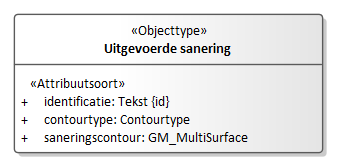
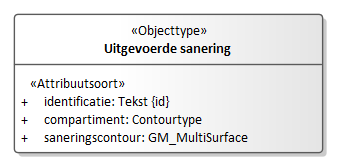
Conceptualmodel-OverheidsbesluitbodemverontreinigingSLD-0.5-1-20230209-20230223-185531

Changed region(s): [[0.178, 0.6928, 0.5935, 0.7831]]

diff --git a/data/SLD-cat.msword.html b/data/SLD-cat.msword.html
@@ -15,7 +15,7 @@
    <body>
       <p>Conceptual model/Overheidsbesluit bodemverontreiniging SLD/20230209</p>
       <p>Imvertor: 2.0.0</p>
-      <p>Model release: Conceptualmodel-OverheidsbesluitbodemverontreinigingSLD-0.5-1-20230209-20230223-153419</p>
+      <p>Model release: Conceptualmodel-OverheidsbesluitbodemverontreinigingSLD-0.5-1-20230209-20230223-185531</p>
       <hr>
       <section>
          <h1>Artikel 1 Definitie van registratieobject, entiteiten en attributen</h1>
@@ -568,7 +568,7 @@
                            </tr>
                         </tbody>
                      </table>
-                     </section><a class="anchor" id="detail_d37994e2942"></a><section id="detail_d37994e2942">
+                     </section><a class="anchor" id="detail_d37890e2942"></a><section id="detail_d37890e2942">
                      <h4>  registratiegeschiedenis</h4>
                      <table style="width: 100%;">
                         <colgroup style="width: 30%;"></colgroup>
@@ -605,7 +605,7 @@
                            </tr>
                         </tbody>
                      </table>
-                  </section><a class="anchor" id="detail_d37994e3127"></a><section id="detail_d37994e3127">
+                  </section><a class="anchor" id="detail_d37890e3127"></a><section id="detail_d37890e3127">
                      <h4>  geldigheid</h4>
                      <table style="width: 100%;">
                         <colgroup style="width: 30%;"></colgroup>
@@ -653,7 +653,7 @@
                            </tr>
                         </tbody>
                      </table>
-                  </section><a class="anchor" id="detail_d37994e3397"></a><section id="detail_d37994e3397">
+                  </section><a class="anchor" id="detail_d37890e3397"></a><section id="detail_d37890e3397">
                      <h4>  gestandaardiseerde locatie</h4>
                      <table style="width: 100%;">
                         <colgroup style="width: 30%;"></colgroup>
@@ -1641,13 +1641,9 @@
                                  kwaliteit. Belastende activiteiten kunnen de bodemkwaliteit verminderen of bedreigen.
                                  Onder belastende activiteiten vallen bijvoorbeeld stortplaatsen, slootdempingen, (gesaneerde)
                                  ondergrondse brandstoftanks of (oude) industriële bedrijfsterreinen.<br clear="none">
+                                 <strong>[TODO]</strong> vanaf 1 januari 1987 (de inwerking treding van de Wet bodembescherming.
+                                 <strong>[open punt]</strong> in de volgende werkversie van de catalogus wordt het start- en eindjaar toegevoegd.
                                  </p>
-                              
-                              <p>
-                                 <strong>[OPEN PUNT]</strong> in de volgende werkversie van de catalogus wordt het start- en eindjaar toegevoegd.
-                                 </p>
-                              
-                              <p>vanaf 1 januari 1987 (de inwerking treding van de Wet bodembescherming</p>
                               </td>
                         </tr>
                      </tbody>
@@ -1785,10 +1781,9 @@
                            <th>Toelichting</th>
                            <td>
                               
-                              <p>
-                                 <strong>[OPEN PUNT]</strong> Zijn gegevens over de geldigheid van het besluit voor IMBRO/A beschikbaar?<br clear="none">
-                                 Het besluit is geldig vanaf de dagtekening van het besluit (verplicht BRO-gegeven)
-                                 tot het besluit wordt ingetrokken of is vervallen of verlopen.</p>
+                              <p>Van besluiten die zijn aangeleverd onder IMBRO/A is de eind geldigheid niet vastgelegd,
+                                 dat is wanneer het besluit is ingetrokken, vervallen of verlopen.<br clear="none">
+                                 <strong>[open punt]</strong> De dagtekening van het besluit (verplicht BRO-gegeven).</p>
                               </td>
                         </tr>
                      </tbody>
@@ -1936,8 +1931,7 @@
                               <th>Toelichting</th>
                               <td>
                                  
-                                 <p>Dat zijn besluiten genomen in het kader van de Wet bodembescherming.
-                                    <strong>[open punt]</strong> andere besluiten en/of meldingen?</p>
+                                 <p>Dat zijn besluiten genomen in het kader van de Wet bodembescherming.</p>
                                  </td>
                            </tr>
                         </tbody>
@@ -1957,7 +1951,7 @@
                               <th>Definitie</th>
                               <td>
                                  
-                                 <p>De datum die het begin aangeeft van de periode gedurende welke het object geldig is.</p>
+                                 <p>De datum waarop het besluit in werking is getreden.</p>
                                  </td>
                            </tr>
                            <tr>
@@ -1985,13 +1979,6 @@
                            <tr>
                               <th>Materiële geschiedenis</th>
                               <td>Nee</td>
-                           </tr>
-                           <tr>
-                              <th>Toelichting</th>
-                              <td>
-                                 
-                                 <p>Vanaf deze datum is het object geldig.</p>
-                                 </td>
                            </tr>
                         </tbody>
                      </table>
@@ -2026,8 +2013,7 @@
                            <th>Toelichting</th>
                            <td>
                               
-                              <p>Saneren is het verwijderen van de verontreiniging of het beperken van de risico's.<br clear="none">
-                                 De sanering is uitgevoerd en het bevoegd gezag heeft ingestemd met de uitgevoerde
+                              <p>De sanering is uitgevoerd en het bevoegd gezag heeft ingestemd met de uitgevoerde
                                  sanering, middels een <em>beschikking tot instemming.</em> Dat is een besluit 'instemmen uitgevoerde sanering' (besluittype ID = 15) of 'instemmen
                                  uitgevoerde sanering nieuw geval' (besluittype ID = 84). Wanneer het bevoegd gezag
                                  Wbb niet heeft ingestemd met de uitgevoerde sanering 'niet instemmen uitgevoerde sanering'
@@ -2093,8 +2079,8 @@
                            </tr>
                         </tbody>
                      </table>
-                     </section><a class="anchor" id="detail_attribute_Model_Uitgevoerdesanering_contourtype"></a><section id="detail_attribute_Model_Uitgevoerdesanering_contourtype">
-                     <h4>  contourtype</h4>
+                     </section><a class="anchor" id="detail_attribute_Model_Uitgevoerdesanering_compartiment"></a><section id="detail_attribute_Model_Uitgevoerdesanering_compartiment">
+                     <h4>  compartiment</h4>
                      
                      <table style="width: 100%;">
                         <colgroup style="width: 30%;"></colgroup>
@@ -2217,7 +2203,8 @@
                         
                         <p>Het type besluit dat door het bevoegd gezag Wet Bodembescherming (een provincie of
                            een gemeente) is genomen over een locatie waarvan de bodem (mogelijk) gesaneerd of
-                           beheerd moet worden of reeds gesaneerd of beheerd is.</p>
+                           beheerd moet worden of reeds gesaneerd of beheerd is.
+                           <strong>[TODO]</strong> omschrijvingen toevoegen.</p>
                         </td>
                   </tr>
                </tbody>
@@ -2745,7 +2732,8 @@
                   <tr>
                      <td>
                         
-                        <p>Aanduiding van bodemmatrix van de contour.</p>
+                        <p>Aanduiding van bodemmatrix van de contour.<br clear="none">
+                           <strong>[TODO]</strong> omschrijvingen toevoegen.</p>
                         </td>
                   </tr>
                </tbody>
@@ -2971,7 +2959,8 @@
                   <tr>
                      <td>
                         
-                        <p>Aanduiding of een bepaalde (bedrijfsmatige) activiteit voldoende is onderzocht.</p>
+                        <p>Aanduiding of een bepaalde (bedrijfsmatige) activiteit voldoende is onderzocht.<br clear="none">
+                           <strong>[TODO]</strong> waarden in lijst opnemen.</p>
                         </td>
                   </tr>
                </tbody>
@@ -2998,7 +2987,8 @@
                      <td>
                         
                         <p>De vervolgactie die in het kader van de Wet bodembescherming (Wbb) uitgevoerd moet
-                           worden.</p>
+                           worden.<br clear="none">
+                           <strong>[TODO]</strong> omschrijvingen toevoegen.</p>
                         </td>
                   </tr>
                </tbody>

diff --git a/data/SLD-cat.respec.html b/data/SLD-cat.respec.html
@@ -544,7 +544,7 @@
                   </tr>
                </tbody>
             </table>
-            </section><a class="anchor" id="detail_d37994e2942"></a><section id="detail_d37994e2942">
+            </section><a class="anchor" id="detail_d37890e2942"></a><section id="detail_d37890e2942">
             <h4>  registratiegeschiedenis</h4>
             <table style="width: 100%;">
                <colgroup style="width: 30%;"></colgroup>
@@ -581,7 +581,7 @@
                   </tr>
                </tbody>
             </table>
-         </section><a class="anchor" id="detail_d37994e3127"></a><section id="detail_d37994e3127">
+         </section><a class="anchor" id="detail_d37890e3127"></a><section id="detail_d37890e3127">
             <h4>  geldigheid</h4>
             <table style="width: 100%;">
                <colgroup style="width: 30%;"></colgroup>
@@ -629,7 +629,7 @@
                   </tr>
                </tbody>
             </table>
-         </section><a class="anchor" id="detail_d37994e3397"></a><section id="detail_d37994e3397">
+         </section><a class="anchor" id="detail_d37890e3397"></a><section id="detail_d37890e3397">
             <h4>  gestandaardiseerde locatie</h4>
             <table style="width: 100%;">
                <colgroup style="width: 30%;"></colgroup>
@@ -1617,13 +1617,9 @@
                         kwaliteit. Belastende activiteiten kunnen de bodemkwaliteit verminderen of bedreigen.
                         Onder belastende activiteiten vallen bijvoorbeeld stortplaatsen, slootdempingen, (gesaneerde)
                         ondergrondse brandstoftanks of (oude) industriële bedrijfsterreinen.<br clear="none">
+                        <strong>[TODO]</strong> vanaf 1 januari 1987 (de inwerking treding van de Wet bodembescherming.
+                        <strong>[open punt]</strong> in de volgende werkversie van de catalogus wordt het start- en eindjaar toegevoegd.
                         </p>
-                     
-                     <p>
-                        <strong>[OPEN PUNT]</strong> in de volgende werkversie van de catalogus wordt het start- en eindjaar toegevoegd.
-                        </p>
-                     
-                     <p>vanaf 1 januari 1987 (de inwerking treding van de Wet bodembescherming</p>
                      </td>
                </tr>
             </tbody>
@@ -1761,10 +1757,9 @@
                   <th>Toelichting</th>
                   <td>
                      
-                     <p>
-                        <strong>[OPEN PUNT]</strong> Zijn gegevens over de geldigheid van het besluit voor IMBRO/A beschikbaar?<br clear="none">
-                        Het besluit is geldig vanaf de dagtekening van het besluit (verplicht BRO-gegeven)
-                        tot het besluit wordt ingetrokken of is vervallen of verlopen.</p>
+                     <p>Van besluiten die zijn aangeleverd onder IMBRO/A is de eind geldigheid niet vastgelegd,
+                        dat is wanneer het besluit is ingetrokken, vervallen of verlopen.<br clear="none">
+                        <strong>[open punt]</strong> De dagtekening van het besluit (verplicht BRO-gegeven).</p>
                      </td>
                </tr>
             </tbody>
@@ -1912,8 +1907,7 @@
                      <th>Toelichting</th>
                      <td>
                         
-                        <p>Dat zijn besluiten genomen in het kader van de Wet bodembescherming.
-                           <strong>[open punt]</strong> andere besluiten en/of meldingen?</p>
+                        <p>Dat zijn besluiten genomen in het kader van de Wet bodembescherming.</p>
                         </td>
                   </tr>
                </tbody>
@@ -1933,7 +1927,7 @@
                      <th>Definitie</th>
                      <td>
                         
-                        <p>De datum die het begin aangeeft van de periode gedurende welke het object geldig is.</p>
+                        <p>De datum waarop het besluit in werking is getreden.</p>
                         </td>
                   </tr>
                   <tr>
@@ -1961,13 +1955,6 @@
                   <tr>
                      <th>Materiële geschiedenis</th>
                      <td>Nee</td>
-                  </tr>
-                  <tr>
-                     <th>Toelichting</th>
-                     <td>
-                        
-                        <p>Vanaf deze datum is het object geldig.</p>
-                        </td>
                   </tr>
                </tbody>
             </table>
@@ -2002,8 +1989,7 @@
                   <th>Toelichting</th>
                   <td>
                      
-                     <p>Saneren is het verwijderen van de verontreiniging of het beperken van de risico's.<br clear="none">
-                        De sanering is uitgevoerd en het bevoegd gezag heeft ingestemd met de uitgevoerde
+                     <p>De sanering is uitgevoerd en het bevoegd gezag heeft ingestemd met de uitgevoerde
                         sanering, middels een <em>beschikking tot instemming.</em> Dat is een besluit 'instemmen uitgevoerde sanering' (besluittype ID = 15) of 'instemmen
                         uitgevoerde sanering nieuw geval' (besluittype ID = 84). Wanneer het bevoegd gezag
                         Wbb niet heeft ingestemd met de uitgevoerde sanering 'niet instemmen uitgevoerde sanering'
@@ -2069,8 +2055,8 @@
                   </tr>
                </tbody>
             </table>
-            </section><a class="anchor" id="detail_attribute_Model_Uitgevoerdesanering_contourtype"></a><section id="detail_attribute_Model_Uitgevoerdesanering_contourtype">
-            <h4>  contourtype</h4>
+            </section><a class="anchor" id="detail_attribute_Model_Uitgevoerdesanering_compartiment"></a><section id="detail_attribute_Model_Uitgevoerdesanering_compartiment">
+            <h4>  compartiment</h4>
             
             <table style="width: 100%;">
                <colgroup style="width: 30%;"></colgroup>
@@ -2191,7 +2177,8 @@
                   
                   <p>Het type besluit dat door het bevoegd gezag Wet Bodembescherming (een provincie of
                      een gemeente) is genomen over een locatie waarvan de bodem (mogelijk) gesaneerd of
-                     beheerd moet worden of reeds gesaneerd of beheerd is.</p>
+                     beheerd moet worden of reeds gesaneerd of beheerd is.
+                     <strong>[TODO]</strong> omschrijvingen toevoegen.</p>
                   </td>
             </tr>
          </tbody>
@@ -2719,7 +2706,8 @@
             <tr>
                <td>
                   
-                  <p>Aanduiding van bodemmatrix van de contour.</p>
+                  <p>Aanduiding van bodemmatrix van de contour.<br clear="none">
+                     <strong>[TODO]</strong> omschrijvingen toevoegen.</p>
                   </td>
             </tr>
          </tbody>
@@ -2945,7 +2933,8 @@
             <tr>
                <td>
                   
-                  <p>Aanduiding of een bepaalde (bedrijfsmatige) activiteit voldoende is onderzocht.</p>
+                  <p>Aanduiding of een bepaalde (bedrijfsmatige) activiteit voldoende is onderzocht.<br clear="none">
+                     <strong>[TODO]</strong> waarden in lijst opnemen.</p>
                   </td>
             </tr>
          </tbody>
@@ -2972,7 +2961,8 @@
                <td>
                   
                   <p>De vervolgactie die in het kader van de Wet bodembescherming (Wbb) uitgevoerd moet
-                     worden.</p>
+                     worden.<br clear="none">
+                     <strong>[TODO]</strong> omschrijvingen toevoegen.</p>
                   </td>
             </tr>
          </tbody>
